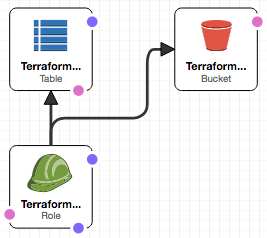
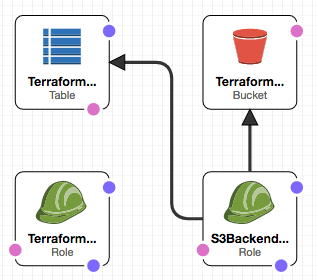
added images, the CF templates, and a start at the blog article

Changed region(s): [[0.0, 0.0294, 0.9888, 1.0]]

diff --git a/blog.md b/blog.md
@@ -1,0 +1,253 @@
+# Terraform Deployment with GitLab & AWS
+*© 2018 Paul Knell, NVISIA LLC*
+
+[Terraform](https://www.terraform.io) is a useful tool for scripting the deployment of resources into
+Amazon's Cloud (AWS).  Usually one begins using Terrform at the local command
+line--by writing configuration files and then running them with "terraform apply"
+commands. It doesn't take long, though, before one realizes that the local
+backend (the "terraform.tfstate" file) isn't enough for collaborative projects
+where deployment pipelines might run concurrently, therefore the [S3 Backend](https://www.terraform.io/docs/backends/types/s3.html)
+should be used. The use of S3 to store the Terraform state is simple when there's
+just one environment, but when you need to support multiple (e.g., test, staging,
+production) there's a bit more to it... you can either:
+1. Use a single S3 Bucket with different folders for the various environments, using [Terraform's workspace feature](https://www.terraform.io/guides/running-terraform-in-automation.html#multi-environment-deployment).
+1. Or, you could use a separate S3 Bucket for each environment.
+
+We like to use different AWS accounts for each environment, particularly because it isolates them and helps distinguish costs on the monthy bill.
+For this article, we'll use the second approach--each account (i.e., each environment) gets it's own "Terraform State" S3 Bucket.
+
+For the CI/CD server, however, there's only one for all environments--to keep costs down.
+This blog works through the creation of this kind of DevOps architecture (as depicted below), and provides a couple CloudFormation templates to make implementation easier.
+
+![Figure 1](https://raw.githubusercontent.com/pknell/gitlab-terraform/master/blog-images/figure1.png)
+
+A few things to note about the above diagram:
+* The GitLab Server can either be self-managed by deploying your own instance into the DevOps Account (right next to the GitLab Runner), or the GitLab Runner can be configured to point at "gitlab.com". It's more leg-work to run your own, but there are advantages.
+* The updates that Terraform performs against each environment can be either: automatic, periodically scheduled, or push-button (i.e., manual review/approval)--it all depends on how you configure the GitLab Pipeline.
+* Only "Staging" and "Production" are depicted, but it's easy to add more environments.
+
+## Getting Started
+
+You're going to need a GitLab account, and at least two AWS accounts (or three if you want to set up multiple environments, such as "staging" and "production").
+
+In the GitLab account, create a new blank project:
+
+![Create GitLab Project](https://raw.githubusercontent.com/pknell/gitlab-terraform/master/blog-images/create-gitlab-project.png)
+
+This will be the project for the CI/CD Pipeline.
+Initially, you can create it with just a README.md file, but later we'll add a ".gitlab-ci.yaml" and a "main.tf" file.
+
+Go to the project's CI/CD settings, and click the "Disable Shared Runners" button because we'll be using our own runner:
+![Disable Shared Runners](https://raw.githubusercontent.com/pknell/gitlab-terraform/master/blog-images/disable-shared-runners.png)
+
+In each AWS account, if you're following the recommended practice of using an IAM user (rather than the root account credentials), make
+sure your user has console access and sufficient permissions to create the CloudFormation stack. The DevOps account's user
+will need administrative access to: IAM, Lambda, and EC2. The "Staging" and "Production" account's user will need
+administrative access to: IAM, S3, DynamoDB, and EC2.
+
+## Deploy the GitLab Runner
+
+Log-in to the AWS console using your DevOps account, and navigate into CloudFormation (using Services --> CloudFormation).
+
+Click "Create Stack".
+
+Specify the template by uploading the gitlab-runner.template file:
+
+![Upload Template to S3](https://raw.githubusercontent.com/pknell/gitlab-terraform/master/blog-images/upload-template.png)
+
+Click "Next", and then enter each missing parameter:
+* Stack name: the stack name, such as "GitLab-Runner"
+* GitLabApiToken: For now, leave this blank. It's used for clean-up of the runner's registration, which will be discussed later.
+* GitLabRunnerToken: The token for your GitLab project. Get this from the "Runners" section of your GitLab project's "Settings --> CI / CD":
+![Runner Token](https://raw.githubusercontent.com/pknell/gitlab-terraform/master/blog-images/runner-token.png)
+* KeyName: Select the Key Pair that you earlier created. If the drop-down is empty, then you need to create a key pair in the current region.
+* Subnet1ID, Subnet2ID, Subnet3ID, and VpcId: Select the VPC that you'd like to use, as well as the subnet for each Availability Zone where the GitLab Runner could exist. You'll want to use a private VPC for a real project, but for learning purposes you can use your account's Default VPC. If the region you're using doesn't have at least 3 availability zones, then you'll need to tweak the template to remove the usage of Subnet3ID--otherwise, just switch to a region that has 3 AZs.
+
+Click "Next" twice (to use the default options). Then, click the checkbox to allow IAM resource creation, and click "Create".
+
+Wait a few minutes for the stack creation to complete. You can now view the EC2 instance of the GitLab Runner in the console:
+
+![GitLab Runner Instance](https://raw.githubusercontent.com/pknell/gitlab-terraform/master/blog-images/runner-ec2-instance.png)
+
+You can also see, in GitLab, that there's a couple registered runners:
+
+![Registered Runners](https://raw.githubusercontent.com/pknell/gitlab-terraform/master/blog-images/registered-runners.png)
+
+Next, select the stack in the CloudFormation console, and click the "Outputs" tab:
+
+TODO: ADD IMAGE of the OUTPUTs HERE
+
+Copy the ARN of the RunnerIamRole to your clipboard. You'll need it for the next section when we set up the S3 backend, because we'll explicitly give that role permission to access the other account.
+
+## Understanding the GitLab Runner Stack
+
+At this point you have everything set up for running GitLab jobs that use Terraform.
+Let's take a look at what's in the stack:
+
+![CloudFormation S3 Backend](https://raw.githubusercontent.com/pknell/gitlab-terraform/master/blog-images/cf-gitlab-runner.png)
+
+At the left of this diagram (above), we have an RunnerIamRole & RunnerInstanceProfile. These are
+for giving the EC2 instance (that runs the GitLab Runner) permission to
+assume the roles of the other accounts. The "AssumeRolePolicyDocument" allows the EC2 service to use the RunnerIamRole when it starts instances, and the "GitLabRunnerPolicy" allows the instance to assume the roles of the other accounts (i.e., "Staging" and "Production").
+It's limited to assuming only "TerraformRole" and "S3BackendRole" (which are roles defined in "s3-backend.template") to avoid giving the instance too much access (e.g., it cannot assume the administrative roles of the DevOps account).
+The CF template code for these is
+as follows:
+
+```
+  RunnerIamRole:
+    Type: 'AWS::IAM::Role'
+    Properties:
+      AssumeRolePolicyDocument:
+        Version: 2012-10-17
+        Statement:
+          - Effect: Allow
+            Principal:
+              Service:
+                - ec2.amazonaws.com
+            Action:
+              - 'sts:AssumeRole'
+      Path: /
+      Policies:
+        - PolicyName: GitLabRunnerPolicy
+          PolicyDocument:
+            Version: 2012-10-17
+            Statement:
+              - Effect: Allow
+                Action:
+                  - 'sts:AssumeRole'
+                Resource:
+                  - 'arn:aws:iam::*:role/TerraformRole'
+                  - 'arn:aws:iam::*:role/S3BackendRole'
+
+  RunnerInstanceProfile:
+    Type: 'AWS::IAM::InstanceProfile'
+    Properties:
+      InstanceProfileName: GitlabRunnerProfile
+      Roles:
+        - !Ref RunnerIamRole
+```
+
+After the IAM resources (RunnerIamRole & RunnerInstanceProfile), there's the
+resources for starting the EC2 instance for the GitLab Runner: RunnerAutoScalingGroup
+& RunnerLaunchConfiguration.  For these, the template code is a bit long, so
+ you'll want to review it [directly in the file](https://raw.githubusercontent.com/pknell/gitlab-terraform/master/gitlab-runner.template).
+Of particular importance are the commands labeled as "1-Register-Docker-Runner" and "2-Register-Shell-Runner".
+These commands each register a runner, associated with the specific GitLab project.
+Why two? Technically you only need one of them, so you can decide which you'd like to keep
+if you prefer not to use both. The difference is in which executor is used. The
+"docker" executor is better at isolating jobs from one another (since it runs in
+its own docker container), whereas the "shell" executor will have access to any
+installed tools. If you look at the "UserData" section of the "RunnerLaunchConfiguration",
+you'll see that we've installed docker, awscli, and terraform. This means that
+your GitLab Pipeline Jobs can use any of these when they use the shell executor.
+With the docker executor, you'd need an image that contains the tools. It's easy to create
+such an image, and it's a good idea, but it's an extra step. For this tutorial,
+we'll merely use the shell.  We'll have to make sure our job (in the .gitlab-ci.yaml file)
+specifies a tag, either "terraform" or "awscli", in order for the runner to know
+to use the shell runner--otherwise it'll use docker. This is because the shell
+runner has the argument "--tag-list terraform,awscli" whereas the docker runner does not.
+
+After the RunnerAutoScalingGroup & RunnerLaunchConfiguration, the "gitlab-runner.template"
+continues with AutoScaling scheduled actions that will remove it at night and
+re-create it in the morning. You can adjust the cron expressions if you prefer a
+different schedule, or remove these altogether (if you want the instance to run 24x7).
+Here's the code for these:
+```
+  ScaleDownAtNight:
+    Type: 'AWS::AutoScaling::ScheduledAction'
+    Properties:
+      AutoScalingGroupName: !Ref RunnerAutoScalingGroup
+      DesiredCapacity: 0
+      MaxSize: 0
+      MinSize: 0
+      Recurrence: 0 2 * * *
+    Metadata:
+      'AWS::CloudFormation::Designer':
+        id: d16f00fe-10db-4d20-bc66-0664546b8f33
+  ScaleUpInMorning:
+    Type: 'AWS::AutoScaling::ScheduledAction'
+    Properties:
+      AutoScalingGroupName: !Ref RunnerAutoScalingGroup
+      DesiredCapacity: 1
+      MaxSize: 1
+      MinSize: 1
+      Recurrence: 0 11 * * 1-5
+```
+
+If you use the scheduled actions, please pay special attention to the
+next section, otherwise your GitLab project will accumulate a lot of
+absolete runners (because they'll get freshly registered each morning but
+never unregistered).
+
+## Unregistration of the Runner
+
+When you examine the "gitlab-runner.template" file, you'll notice a number of
+resources that contain the line "Condition: HasGitLabApiToken". Each of these
+is a component of the clean-up mechanism that will unregister the Runner
+(from GitLab) whenever the EC2 instance terminates. You can enable unregistration
+by:
+1. Log-in to GitLab, and create an API Token (User Settings --> Access Tokens), as depicted below:
+![CloudFormation S3 Backend](https://raw.githubusercontent.com/pknell/gitlab-terraform/master/blog-images/create-api-token.png)
+1. Optional security feature:
+    1. Use [KMS](https://aws.amazon.com/kms/) to create a customer-managed keypair
+    1. Encrypt the GitLab API Access Token with it
+    1. Tweak the Lambda function to decrypt it prior to use
+    * Please keep in mind that the KMS keypair is not free. At the time of writing this article, it
+    costs $1 per month. Encrypting this token is important because GitLab does not currently have
+    any way to limit the scope of access, and anyone who has access to the Lambda function will
+    be able to get the token. With use of KMS, you can separate who has access to view the Lambda
+    function versus who has access to use the key for decryption.
+    * The following screenshot (from the Lambda AWS Console) shows the helper for setting up KMS.
+    After creating the stack, you can navigate to the Lambda function, enable the "helpers" and then
+    click the "Code" button. It will give you JavaScript code for decrypting, which you can use for
+    tweaking the Lambda function. You can then disable the helpers, and the IAM permissions so
+    that only the Lambda function can decrypt with the key (and not the AWS Console user):
+    ![KMS for Lambda Environment Variables](https://raw.githubusercontent.com/pknell/gitlab-terraform/master/blog-images/kms-helper-for-lambda.png)
+    * You can find [the documentation here under "Environment Variable Encryption"](https://docs.aws.amazon.com/lambda/latest/dg/env_variables.html).
+1. Update the CloudFormation stack, without changing the template, but just change the value of the GitLabApiToken parameter.
+
+The presence of GitLabApiToken will cause the stack to look at follows (notice the entire lower section of this diagram is for support of unregistering the runner):
+![CloudFormation S3 Backend](https://raw.githubusercontent.com/pknell/gitlab-terraform/master/blog-images/cf-gitlab-runner-full.png)
+
+Here's how the unregistration works:
+* The Autoscaling Group that controls the lifecycle of the EC2 instance will notify an SNS topic whenever an instance terminates.
+* The SNS topic calls a Lambda function. The function makes an HTTPS request to GitLab (using the API token) to remove the runner registration.
+* How does the Lambda function know which runner to unregister? It looks for the EC2 instance ID in the registration name. For this reason,
+it's important that the runner-registration commands (see the RunnerLaunchConfiguration) include the EC2 instance ID in the name of the runner:
+```gitlab-runner register --non-interactive --name Docker-Runner-$(ec2metadata --instance-id) ...```
+
+You might be wondering why I used the GitLab API to remove the runner, rather than execute
+a "gitlab-runner unregister" command--it's because I found that this command doesn't entirely
+remove the registration on the GitLab server (they still remain in the list of runners, albeit inactive),
+and it seems more reliable to use a lifecycle notification than a shutdown script
+within the instance. However, I believe it could be done either way, each with pros/cons.
+
+## Deploy the S3 Backend
+
+In another account, go to the CloudFormation console and create a stack from the s3-backend.template file.
+
+Click "Next", and then enter the missing parameter values:
+* Stack name: the name of the stack, such as "Terraform-Backend"
+* ExternalId: any random value, such as a new GUID. This is an extra security measure, that [AWS documentation explains](https://docs.aws.amazon.com/IAM/latest/UserGuide/id_roles_create_for-user_externalid.html). It's arguably not needed for our usage since we own all accounts involved, however using it doesn't hurt. You'll need to use the same value when running Terraform (in the S3 Backend configuration).
+* RunnerIamRoleArn: The ARN of the runner's role (previously copied into your clipboard when you looked at Outputs of the GitLab Runner stack).
+
+Click "Next" twice (to use the default options). Then, click the checkbox to allow IAM resource creation, and click "Create".
+
+Wait for the stack creation to complete. You now have everything set up for the S3 Backend. Let's take a look at what's in the stack:
+
+![CloudFormation S3 Backend](https://raw.githubusercontent.com/pknell/gitlab-terraform/master/blog-images/cf-s3-backend.png)
+
+## Understanding the S3 Backend Stack
+
+TODO
+
+## Create the Terraform and GitLab Configuration
+
+Now that you have the GitLab Runner (with Terraform installed) and the S3 Backend, it's time to create some infrastructure! For this example, we'll just spin up an EC2 instance, but for your project it can be any AWS resources that Terraform supports.
+
+TODO--present the main.tf
+
+TODO--present the .gitlab-ci.yaml
+
+## Run the Pipeline
+
